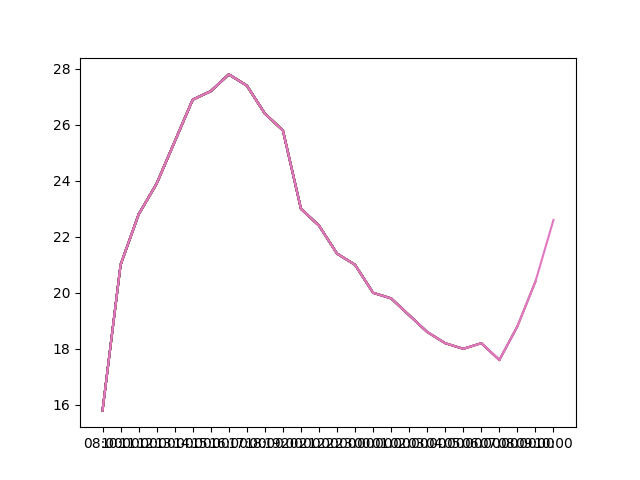
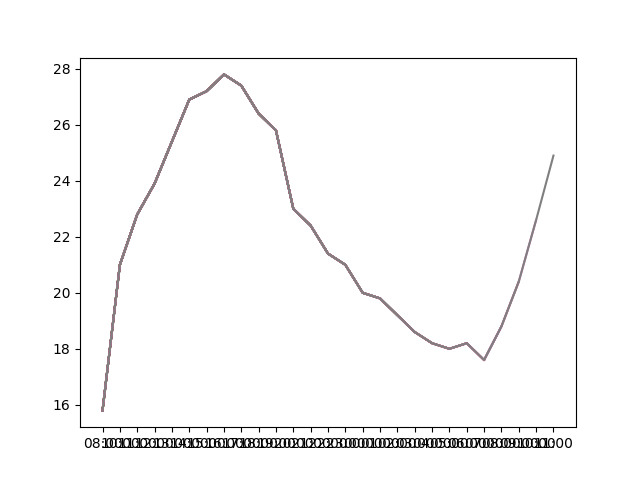
'updated'

diff --git a/index.html b/index.html
@@ -1,2 +1,2 @@
 <img src='graph.png'> 
-<table border="1"><tr><th>data</th><td><table border="1"><thead><tr><th>date</th><th>hour</th><th>weather</th><th>visibility</th><th>temp</th><th>unk</th><th>humidity</th><th>wind</th><th>pressure</th></tr></thead><tbody><tr><td>03-Abril-2021</td><td>08:00</td><td>Algo nublado con banco delgado de niebla</td><td>8 km</td><td>15.8</td><td>No se calcula</td><td>92.0</td><td>Sur  3</td><td>1014.5</td></tr><tr><td>03-Abril-2021</td><td>10:00</td><td>Despejado</td><td>15 km</td><td>21.0</td><td>No se calcula</td><td>71.0</td><td>Noreste  11</td><td>1014.8</td></tr><tr><td>03-Abril-2021</td><td>11:00</td><td>Despejado</td><td>15 km</td><td>22.8</td><td>No se calcula</td><td>66.0</td><td>Este  5</td><td>1014.6</td></tr><tr><td>03-Abril-2021</td><td>12:00</td><td>Algo nublado</td><td>15 km</td><td>23.9</td><td>No se calcula</td><td>61.0</td><td>Noreste  7</td><td>1014.2</td></tr><tr><td>03-Abril-2021</td><td>13:00</td><td>Algo nublado</td><td>15 km</td><td>25.4</td><td>No se calcula</td><td>55.0</td><td>Este  5</td><td>1013.6</td></tr><tr><td>03-Abril-2021</td><td>14:00</td><td>Algo nublado</td><td>15 km</td><td>26.9</td><td>27.3</td><td>49.0</td><td>Noreste  5</td><td>1012.8</td></tr><tr><td>03-Abril-2021</td><td>15:00</td><td>Algo nublado</td><td>15 km</td><td>27.2</td><td>26.4</td><td>42.0</td><td>Noreste  13</td><td>1012.0</td></tr><tr><td>03-Abril-2021</td><td>16:00</td><td>Algo nublado</td><td>15 km</td><td>27.8</td><td>No se calcula</td><td>36.0</td><td>Sudeste  9</td><td>1011.4</td></tr><tr><td>03-Abril-2021</td><td>17:00</td><td>Algo nublado</td><td>15 km</td><td>27.4</td><td>No se calcula</td><td>38.0</td><td>Este  7</td><td>1011.3</td></tr><tr><td>03-Abril-2021</td><td>18:00</td><td>Despejado</td><td>15 km</td><td>26.4</td><td>No se calcula</td><td>39.0</td><td>Sur  9</td><td>1011.3</td></tr><tr><td>03-Abril-2021</td><td>19:00</td><td>Despejado</td><td>15 km</td><td>25.8</td><td>No se calcula</td><td>43.0</td><td>Calma</td><td>1011.4</td></tr><tr><td>03-Abril-2021</td><td>20:00</td><td>Despejado</td><td>15 km</td><td>23.0</td><td>No se calcula</td><td>58.0</td><td>Sur  5</td><td>1011.8</td></tr><tr><td>03-Abril-2021</td><td>21:00</td><td>Algo nublado</td><td>15 km</td><td>22.4</td><td>No se calcula</td><td>62.0</td><td>Sur  7</td><td>1012.2</td></tr><tr><td>03-Abril-2021</td><td>22:00</td><td>Algo nublado</td><td>15 km</td><td>21.4</td><td>No se calcula</td><td>68.0</td><td>Calma</td><td>1012.8</td></tr><tr><td>03-Abril-2021</td><td>23:00</td><td>Despejado</td><td>15 km</td><td>21.0</td><td>No se calcula</td><td>73.0</td><td>Calma</td><td>1012.8</td></tr><tr><td>04-Abril-2021</td><td>00:00</td><td>Despejado</td><td>15 km</td><td>20.0</td><td>No se calcula</td><td>77.0</td><td>Sudeste  5</td><td>1012.6</td></tr><tr><td>04-Abril-2021</td><td>01:00</td><td>Algo nublado</td><td>15 km</td><td>19.8</td><td>No se calcula</td><td>76.0</td><td>Calma</td><td>1012.4</td></tr><tr><td>04-Abril-2021</td><td>02:00</td><td>Despejado</td><td>15 km</td><td>19.2</td><td>No se calcula</td><td>75.0</td><td>Calma</td><td>1012.1</td></tr><tr><td>04-Abril-2021</td><td>03:00</td><td>Algo nublado</td><td>15 km</td><td>18.6</td><td>No se calcula</td><td>82.0</td><td>Noreste  9</td><td>1012.0</td></tr><tr><td>04-Abril-2021</td><td>04:00</td><td>Algo nublado</td><td>15 km</td><td>18.2</td><td>No se calcula</td><td>83.0</td><td>Calma</td><td>1012.0</td></tr><tr><td>04-Abril-2021</td><td>05:00</td><td>Algo nublado</td><td>15 km</td><td>18.0</td><td>No se calcula</td><td>89.0</td><td>Calma</td><td>1011.8</td></tr><tr><td>04-Abril-2021</td><td>06:00</td><td>Algo nublado</td><td>15 km</td><td>18.2</td><td>No se calcula</td><td>91.0</td><td>Calma</td><td>1012.0</td></tr><tr><td>04-Abril-2021</td><td>07:00</td><td>Algo nublado</td><td>15 km</td><td>17.6</td><td>No se calcula</td><td>93.0</td><td>Sudeste  5</td><td>1012.6</td></tr><tr><td>04-Abril-2021</td><td>08:00</td><td>Algo nublado</td><td>15 km</td><td>18.8</td><td>No se calcula</td><td>90.0</td><td>Calma</td><td>1012.8</td></tr><tr><td>04-Abril-2021</td><td>09:00</td><td>Algo nublado</td><td>15 km</td><td>20.4</td><td>No se calcula</td><td>83.0</td><td>Este  9</td><td>1013.2</td></tr><tr><td>04-Abril-2021</td><td>10:00</td><td>Algo nublado</td><td>15 km</td><td>22.6</td><td>No se calcula</td><td>74.0</td><td>Noreste  11</td><td>1013.2</td></tr></tbody></table></td></tr></table>
+<table border="1"><tr><th>data</th><td><table border="1"><thead><tr><th>date</th><th>hour</th><th>weather</th><th>visibility</th><th>temp</th><th>unk</th><th>humidity</th><th>wind</th><th>pressure</th></tr></thead><tbody><tr><td>03-Abril-2021</td><td>08:00</td><td>Algo nublado con banco delgado de niebla</td><td>8 km</td><td>15.8</td><td>No se calcula</td><td>92.0</td><td>Sur  3</td><td>1014.5</td></tr><tr><td>03-Abril-2021</td><td>10:00</td><td>Despejado</td><td>15 km</td><td>21.0</td><td>No se calcula</td><td>71.0</td><td>Noreste  11</td><td>1014.8</td></tr><tr><td>03-Abril-2021</td><td>11:00</td><td>Despejado</td><td>15 km</td><td>22.8</td><td>No se calcula</td><td>66.0</td><td>Este  5</td><td>1014.6</td></tr><tr><td>03-Abril-2021</td><td>12:00</td><td>Algo nublado</td><td>15 km</td><td>23.9</td><td>No se calcula</td><td>61.0</td><td>Noreste  7</td><td>1014.2</td></tr><tr><td>03-Abril-2021</td><td>13:00</td><td>Algo nublado</td><td>15 km</td><td>25.4</td><td>No se calcula</td><td>55.0</td><td>Este  5</td><td>1013.6</td></tr><tr><td>03-Abril-2021</td><td>14:00</td><td>Algo nublado</td><td>15 km</td><td>26.9</td><td>27.3</td><td>49.0</td><td>Noreste  5</td><td>1012.8</td></tr><tr><td>03-Abril-2021</td><td>15:00</td><td>Algo nublado</td><td>15 km</td><td>27.2</td><td>26.4</td><td>42.0</td><td>Noreste  13</td><td>1012.0</td></tr><tr><td>03-Abril-2021</td><td>16:00</td><td>Algo nublado</td><td>15 km</td><td>27.8</td><td>No se calcula</td><td>36.0</td><td>Sudeste  9</td><td>1011.4</td></tr><tr><td>03-Abril-2021</td><td>17:00</td><td>Algo nublado</td><td>15 km</td><td>27.4</td><td>No se calcula</td><td>38.0</td><td>Este  7</td><td>1011.3</td></tr><tr><td>03-Abril-2021</td><td>18:00</td><td>Despejado</td><td>15 km</td><td>26.4</td><td>No se calcula</td><td>39.0</td><td>Sur  9</td><td>1011.3</td></tr><tr><td>03-Abril-2021</td><td>19:00</td><td>Despejado</td><td>15 km</td><td>25.8</td><td>No se calcula</td><td>43.0</td><td>Calma</td><td>1011.4</td></tr><tr><td>03-Abril-2021</td><td>20:00</td><td>Despejado</td><td>15 km</td><td>23.0</td><td>No se calcula</td><td>58.0</td><td>Sur  5</td><td>1011.8</td></tr><tr><td>03-Abril-2021</td><td>21:00</td><td>Algo nublado</td><td>15 km</td><td>22.4</td><td>No se calcula</td><td>62.0</td><td>Sur  7</td><td>1012.2</td></tr><tr><td>03-Abril-2021</td><td>22:00</td><td>Algo nublado</td><td>15 km</td><td>21.4</td><td>No se calcula</td><td>68.0</td><td>Calma</td><td>1012.8</td></tr><tr><td>03-Abril-2021</td><td>23:00</td><td>Despejado</td><td>15 km</td><td>21.0</td><td>No se calcula</td><td>73.0</td><td>Calma</td><td>1012.8</td></tr><tr><td>04-Abril-2021</td><td>00:00</td><td>Despejado</td><td>15 km</td><td>20.0</td><td>No se calcula</td><td>77.0</td><td>Sudeste  5</td><td>1012.6</td></tr><tr><td>04-Abril-2021</td><td>01:00</td><td>Algo nublado</td><td>15 km</td><td>19.8</td><td>No se calcula</td><td>76.0</td><td>Calma</td><td>1012.4</td></tr><tr><td>04-Abril-2021</td><td>02:00</td><td>Despejado</td><td>15 km</td><td>19.2</td><td>No se calcula</td><td>75.0</td><td>Calma</td><td>1012.1</td></tr><tr><td>04-Abril-2021</td><td>03:00</td><td>Algo nublado</td><td>15 km</td><td>18.6</td><td>No se calcula</td><td>82.0</td><td>Noreste  9</td><td>1012.0</td></tr><tr><td>04-Abril-2021</td><td>04:00</td><td>Algo nublado</td><td>15 km</td><td>18.2</td><td>No se calcula</td><td>83.0</td><td>Calma</td><td>1012.0</td></tr><tr><td>04-Abril-2021</td><td>05:00</td><td>Algo nublado</td><td>15 km</td><td>18.0</td><td>No se calcula</td><td>89.0</td><td>Calma</td><td>1011.8</td></tr><tr><td>04-Abril-2021</td><td>06:00</td><td>Algo nublado</td><td>15 km</td><td>18.2</td><td>No se calcula</td><td>91.0</td><td>Calma</td><td>1012.0</td></tr><tr><td>04-Abril-2021</td><td>07:00</td><td>Algo nublado</td><td>15 km</td><td>17.6</td><td>No se calcula</td><td>93.0</td><td>Sudeste  5</td><td>1012.6</td></tr><tr><td>04-Abril-2021</td><td>08:00</td><td>Algo nublado</td><td>15 km</td><td>18.8</td><td>No se calcula</td><td>90.0</td><td>Calma</td><td>1012.8</td></tr><tr><td>04-Abril-2021</td><td>09:00</td><td>Algo nublado</td><td>15 km</td><td>20.4</td><td>No se calcula</td><td>83.0</td><td>Este  9</td><td>1013.2</td></tr><tr><td>04-Abril-2021</td><td>10:00</td><td>Algo nublado</td><td>15 km</td><td>22.6</td><td>No se calcula</td><td>74.0</td><td>Noreste  11</td><td>1013.2</td></tr><tr><td>04-Abril-2021</td><td>11:00</td><td>Algo nublado</td><td>15 km</td><td>24.9</td><td>No se calcula</td><td>66.0</td><td>Noreste  13</td><td>1012.9</td></tr></tbody></table></td></tr></table>
